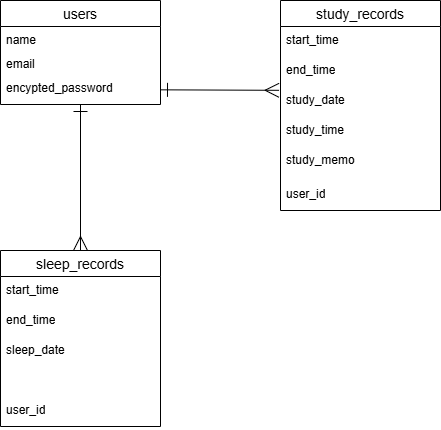
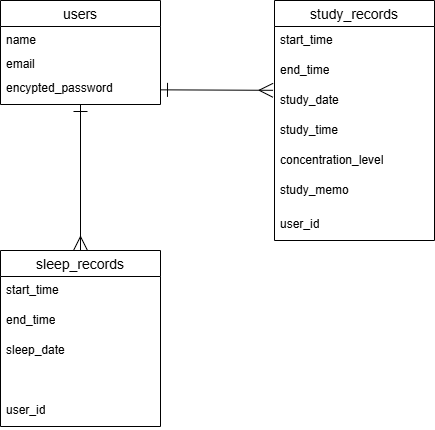
READMEの更新

diff --git a/README.md b/README.md
@@ -33,7 +33,7 @@ https://ssrecord-42059-rails7-user-id.onrender.com/
 
 ### 備考
 
-- 学習時間記録に関しては開始日時と終了時刻に加え、学習内容のメモを記録できる
+- 学習時間記録に関しては開始日時と終了時刻に加え、学習の集中度と学習内容のメモを記録できる
 - 学習時間記録および睡眠時間記録はそれぞれ1日に1件までしか登録できない
 - 睡眠時間記録は就寝時刻が0:00～5:00の場合、前日の記録として扱う
 - 学習時間記録の開始日時および終了時刻は9:00～17:00の範囲で登録しなければならない
@@ -48,7 +48,6 @@ https://ssrecord-42059-rails7-user-id.onrender.com/
 
 # 実装予定の機能
 
-- 学習時間記録に1～5の5段階評価で集中度の記録（デフォルト/評価なしは0）
 - 学習時間記録と睡眠時間記録に対する目標時間記録機能
 - カレンダー表示およびカレンダーから選択する形式での特定日付に絞った日別表示機能
 - 週間集計画面における睡眠時間と学習時間のグラフ表示
@@ -97,8 +96,9 @@ https://ssrecord-42059-rails7-user-id.onrender.com/
 
 [![学習時間登録動画](https://i.gyazo.com/82c11e4cd0dafcd2571e2c6b7019ffc8.gif)](https://gyazo.com/82c11e4cd0dafcd2571e2c6b7019ffc8)
 
-学習開始時間と学習終了時間、学習内容のメモを登録できる。<br>
+学習開始時間と学習終了時間、学習の集中度、学習内容のメモを登録できる。<br>
 学習開始日時と学習終了日時は9:00～17:00の範囲で登録するようにしている。<br>
+学習の集中度は1～5の5段階評価とし、それ以外に「評価なし」が選択できる
 記録時には学習開始日時のみを必須項目とし、学習終了日時は後から登録できるようにしている。<br>
 また、学習内容のメモに関しても任意とし、後から登録・編集できるようにしている。<br>
 学習開始日時と学習終了日時は日時ではなく時刻のみを入力する形にし、学習開始日時の日付部分を学習終了日時に自動で反映させるようにしている。
@@ -266,7 +266,6 @@ bundle exec rspec spec/system
 # 今後の改善予定
 
 - 現在は記録を一覧形式で表示しているが、学習時間や睡眠時間をグラフ表示する機能を追加することで、生活リズムと学習状況の関連性をより直感的に振り返りやすくする
-- 学習時間記録について現在は学習開始日時と学習終了時刻、学習メモのみを記録できるが、集中度のような項目も記録できるようにすることで、生活リズムと学習効率の関連性を振り返りやすくする
 - 現在は古い日時の記録を編集・削除する場合にはトップページから該当の日時の記録をページネーションで探して編集・削除する必要があるが、カレンダー表示およびカレンダーから選択する形式での特定日付に絞った日別表示機能を追加することで、古い日時の記録も編集・削除しやすくする
 - 記録忘れを防ぐため、前日の記録が未登録・未完了の場合に通知するよう設定できるリマインダー機能を追加する
 - 記録件数が増加した後も振り返りやすくするため、期間指定や学習メモ内容を指定しての検索や並び替え機能の追加を検討する